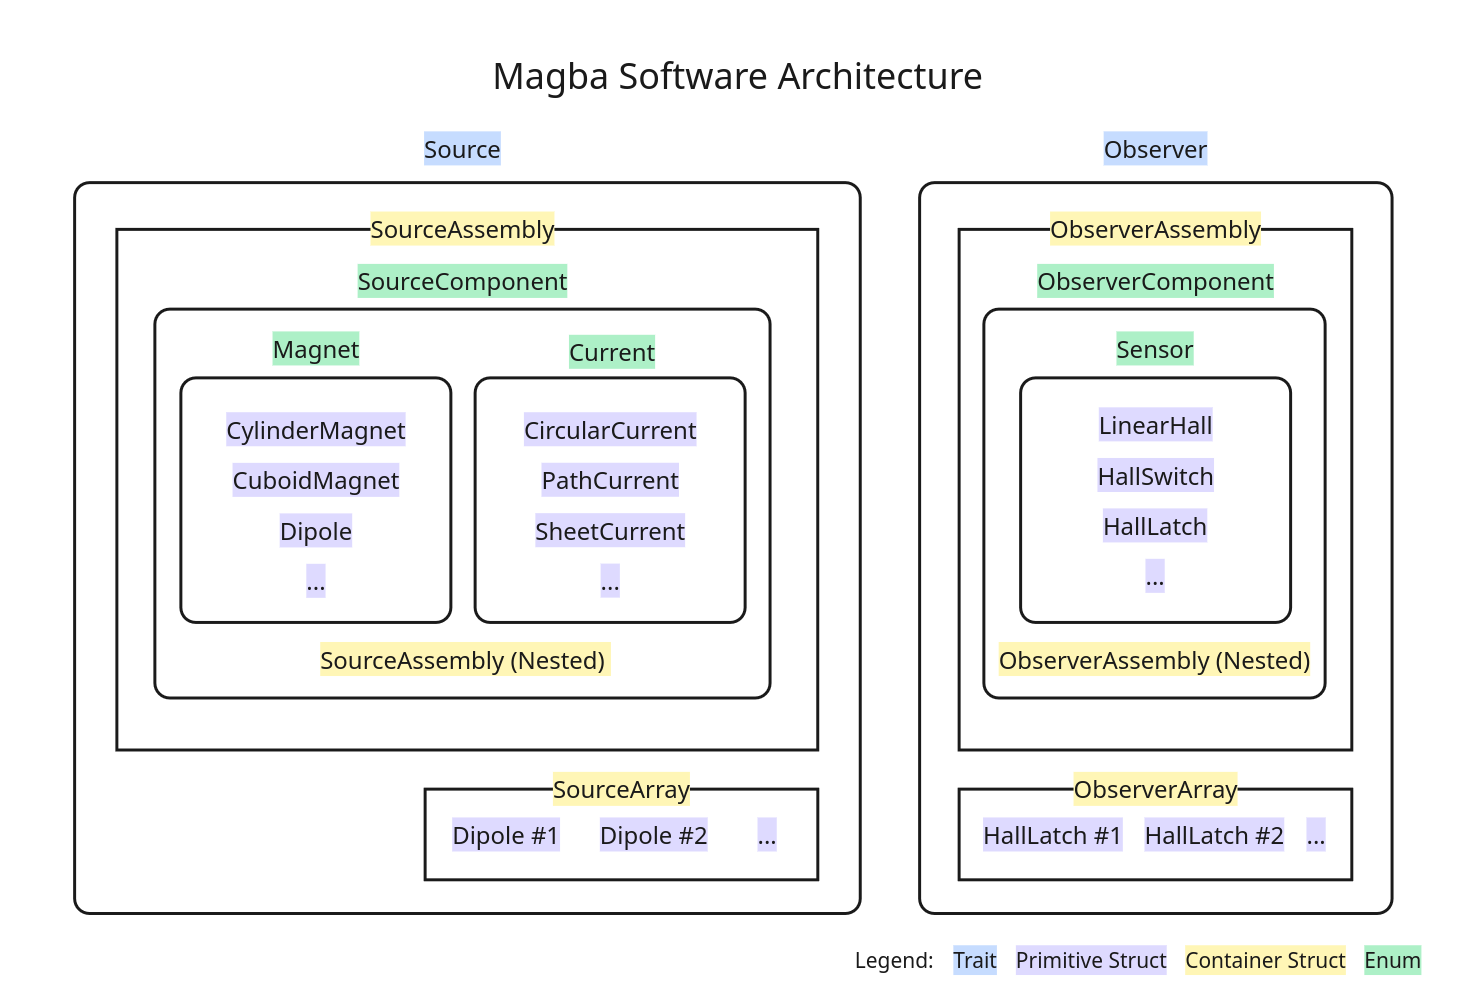
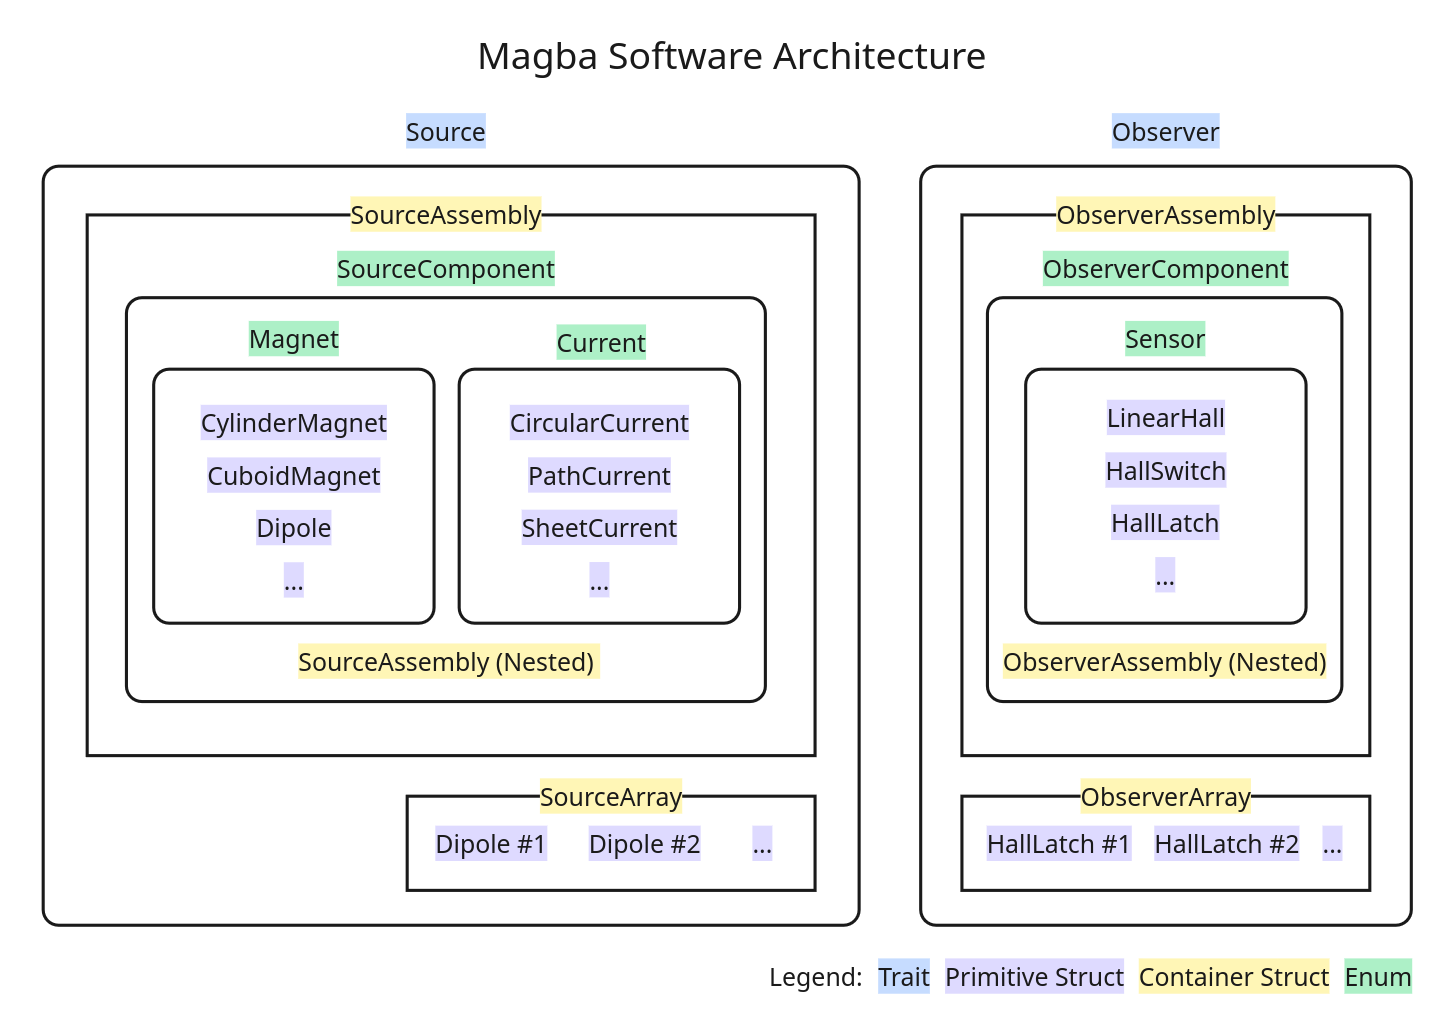
PAPER: Fix syntax and format the figure

Changed region(s): [[0.031, 0.0312, 0.9924, 0.997]]

diff --git a/paper/paper.md b/paper/paper.md
@@ -43,7 +43,7 @@ The composition system provides two types of containers: arrays and assemblies. 
 
 Magba was extensively evaluated against Magpylib's [@ortner2020] fully vectorized NumPy implementations. Test magnets were assigned a $[1, 2, 3]$ T polarization, and fields were computed on a 1,000-point grid spanning $\pm0.5$ m. Accuracy is measured using the relative Euclidean distance error.
 
-Benchmarks were conducted on an AMD Ryzen 5 4600H @4.0 GHz (16 GB RAM), running x86_64-unknown-linux-gnu with rustc 1.90.0 and magba v0.6.1, utilizing Criterion [@aparicio2025] and asv [@droettboom2026] for performance profiling in Rust and Python, respectively. The reported compute times are normalized per observer point.
+Benchmarks were conducted on an AMD Ryzen 5 4600H 4.0 GHz, 16 GB of RAM, running x86_64-unknown-linux-gnu with rustc 1.90.0 and magba v0.6.1, utilizing Criterion [@aparicio2025] and asv [@droettboom2026] for performance profiling in Rust and Python, respectively. The reported compute times are normalized per observer point.
 
 Table 1: Summary of Field Function Accuracy and Performance at 64-bit Precision.
 